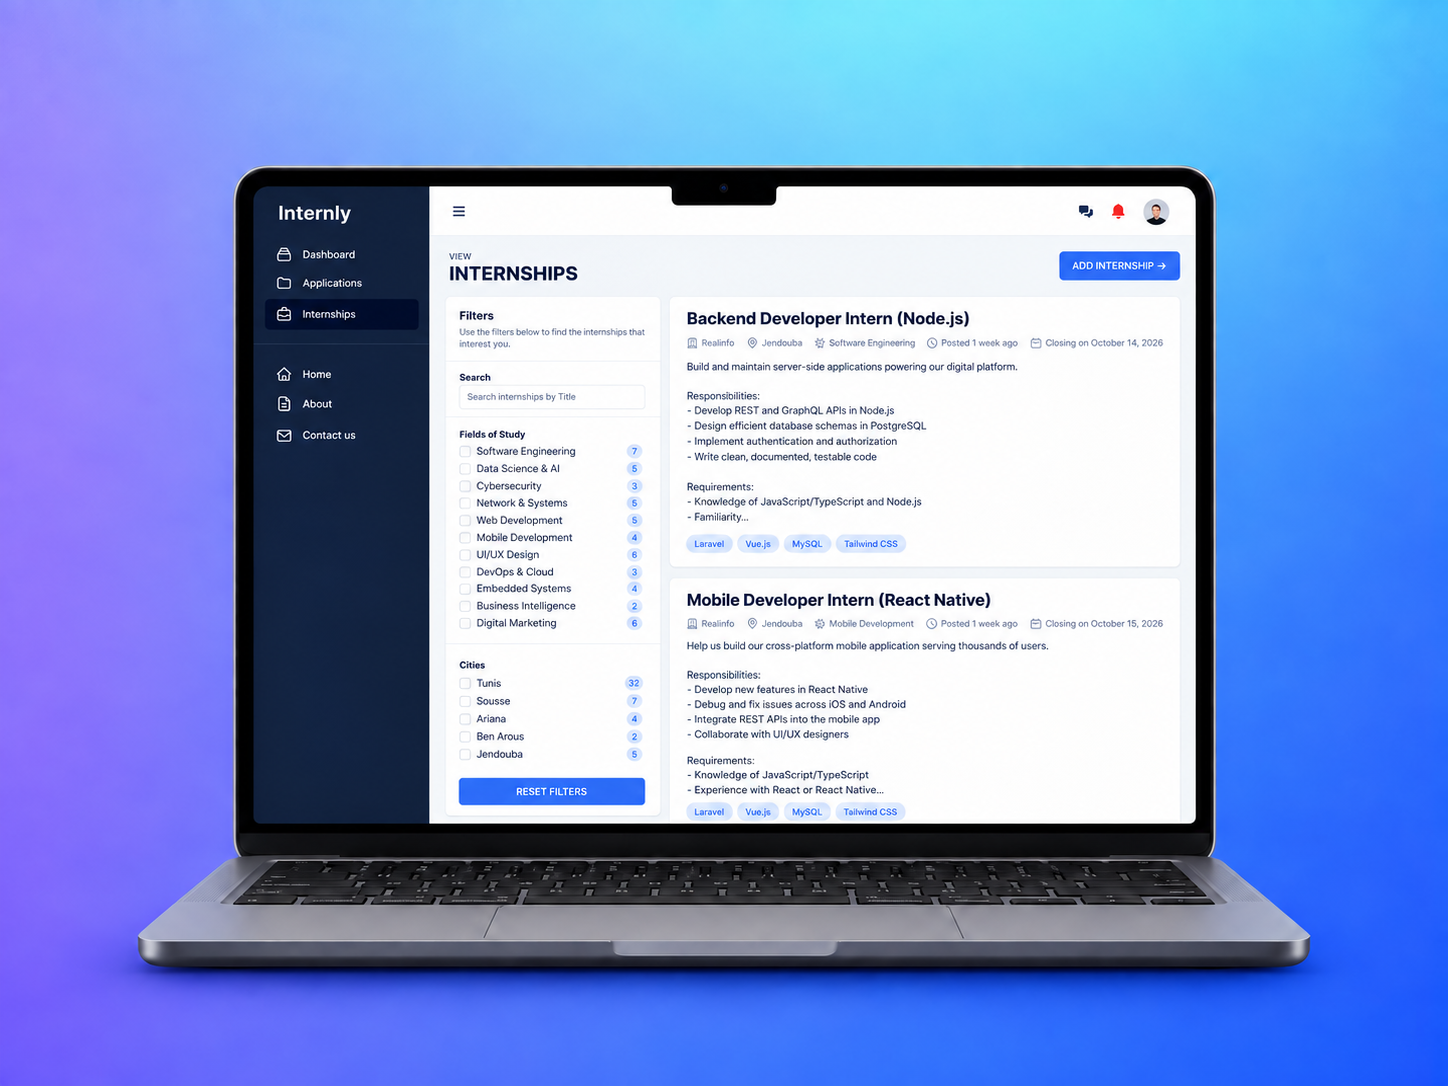
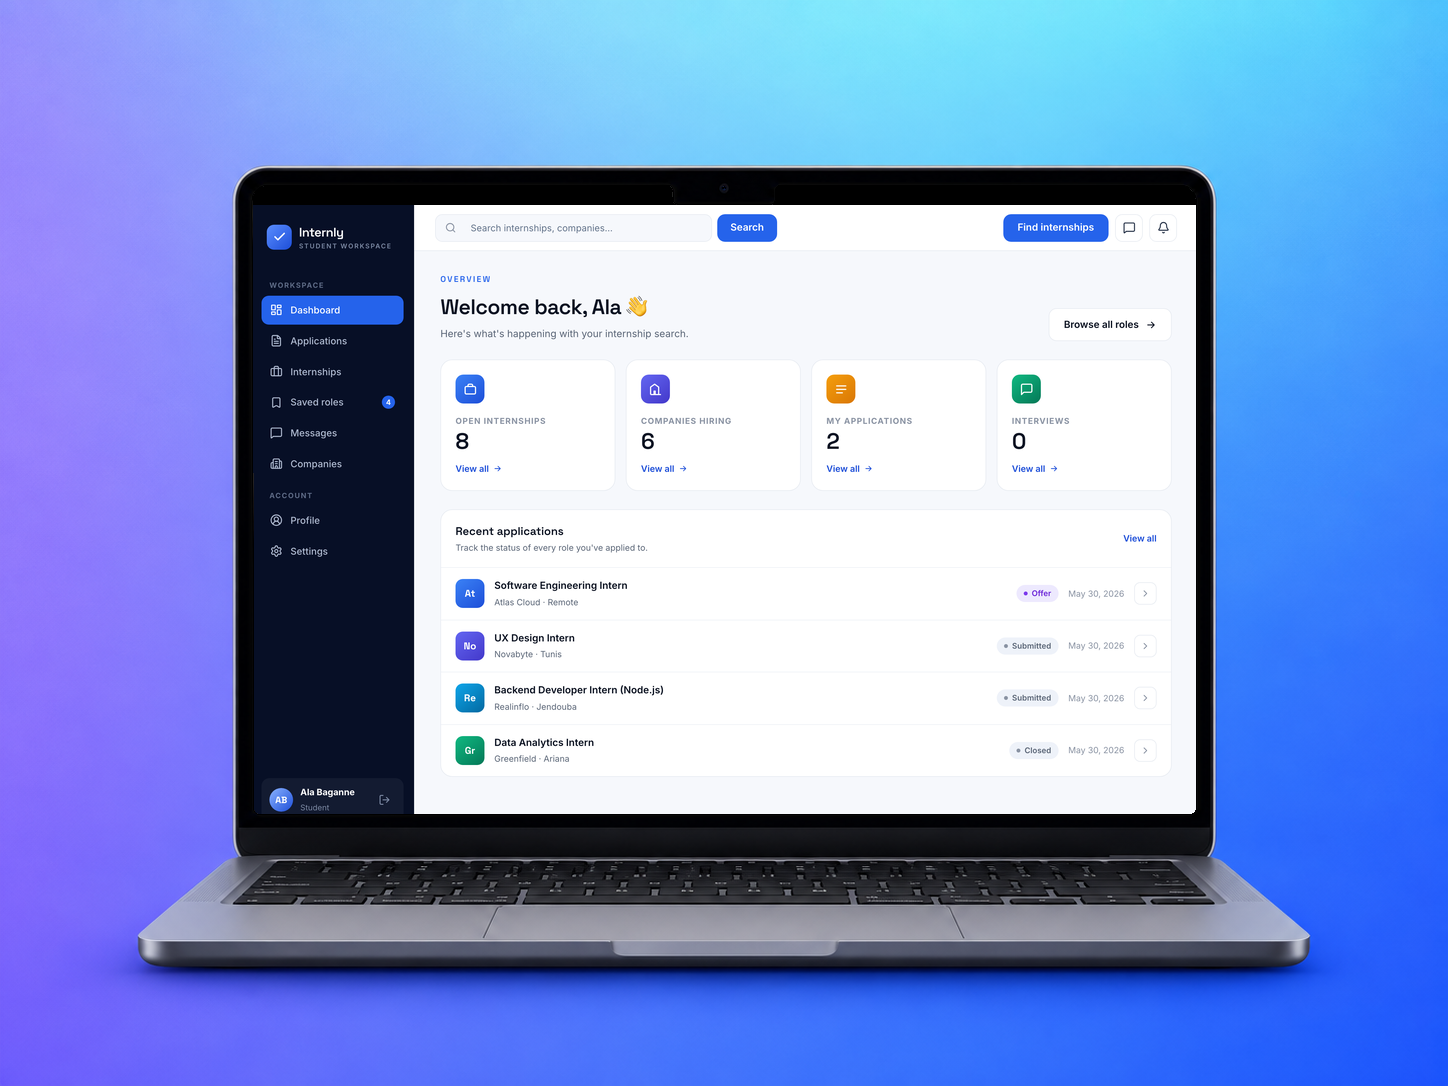
Add Karta and an Internly screenshots page, refresh project images

Changed region(s): [[0.1554, 0.1519, 0.8391, 0.7901]]

diff --git a/website/src/app/projects/internly/page.jsx b/website/src/app/projects/internly/page.jsx
@@ -1,0 +1,173 @@
+import Image from "next/image";
+import Link from "next/link";
+import { ArrowLeft, ArrowUpRight, Mail } from "lucide-react";
+
+import { SiteNavbar } from "@/components/site-navbar";
+
+export const metadata = {
+  title: "Internly screenshots | Ala Baganne",
+  description:
+    "Screenshots of Internly, an internship platform built with Laravel, Vue.js and Inertia.js: student, company and admin workspaces.",
+  alternates: {
+    canonical: "/projects/internly",
+  },
+  openGraph: {
+    title: "Internly — internship platform",
+    description: "Student, company and admin workspaces of Internly, built with Laravel, Vue.js and Inertia.js.",
+    type: "website",
+    url: "/projects/internly",
+    images: ["/projects/internly-demo.png"],
+  },
+};
+
+const tech = ["Laravel", "Vue.js", "Inertia.js", "MySQL", "Pusher"];
+
+const sections = [
+  {
+    title: "For students",
+    text: "Find roles, save the good ones, apply, and follow every application in one place.",
+    shots: [
+      { file: "student-internships", title: "Browse internships", text: "Search, field tabs and filters by field, city and company." },
+      { file: "student-internship-detail", title: "Internship details", text: "Role, skills, deadline and the company's contact card." },
+      { file: "student-applications", title: "Application tracking", text: "Every application with its status, from submitted to offer." },
+      { file: "student-messages", title: "Messages", text: "Chat with companies about an application." },
+    ],
+  },
+  {
+    title: "For companies",
+    text: "Post roles and review who applied.",
+    shots: [
+      { file: "company-applications", title: "Applicants", text: "The hiring pipeline, grouped by status." },
+    ],
+  },
+  {
+    title: "For admins",
+    text: "Admins get extra tools to run the platform.",
+    shots: [
+      { file: "admin-students", title: "Students", text: "Every student profile, with quick access to profiles and messages." },
+      { file: "admin-fields", title: "Fields of study", text: "Manage the fields that internships and students are sorted by." },
+    ],
+  },
+  {
+    title: "Public pages",
+    text: "What visitors see before they sign in.",
+    shots: [
+      { file: "landing", title: "Landing page", text: "Open roles, companies hiring and a clear way in." },
+      { file: "login", title: "Log in", text: "Split layout with the student demo account filled in." },
+    ],
+  },
+];
+
+function Shot({ file, title, text, priority = false }) {
+  const src = `/projects/internly/${file}.webp`;
+
+  return (
+    <figure>
+      <a
+        href={src}
+        target="_blank"
+        rel="noreferrer"
+        className="block overflow-hidden rounded-2xl border border-slate-200 bg-white shadow-[0_24px_60px_-28px_rgba(15,23,42,0.35)] transition hover:-translate-y-1"
+      >
+        <Image
+          src={src}
+          alt={`Internly ${title.toLowerCase()} screen`}
+          width={2880}
+          height={1800}
+          sizes="(min-width: 1024px) 50vw, 100vw"
+          priority={priority}
+          className="h-auto w-full"
+        />
+      </a>
+      <figcaption className="mt-4">
+        <p className="font-semibold text-slate-950">{title}</p>
+        <p className="mt-1 text-sm leading-6 text-slate-500">{text}</p>
+      </figcaption>
+    </figure>
+  );
+}
+
+export default function InternlyPage() {
+  return (
+    <main className="min-h-screen bg-white text-slate-700">
+      <SiteNavbar />
+
+      <header className="bg-slate-50 px-5 pb-16 pt-32 sm:px-8">
+        <div className="mx-auto max-w-6xl">
+          <Link className="inline-flex items-center gap-2 text-sm font-semibold !text-slate-500 hover:!text-blue-600" href="/#projects">
+            <ArrowLeft className="h-4 w-4" aria-hidden />
+            All projects
+          </Link>
+          <div className="mt-8 flex flex-col gap-8 lg:flex-row lg:items-end lg:justify-between">
+            <div className="max-w-3xl">
+              <span className="inline-flex items-center gap-3 font-mono text-xs font-medium uppercase tracking-[0.14em] text-blue-600 before:h-px before:w-6 before:bg-current">
+                End of studies project
+              </span>
+              <h1 className="mt-4 font-display text-5xl font-semibold tracking-[-0.03em] text-slate-950 md:text-6xl">Internly</h1>
+              <p className="mt-5 text-base leading-8 text-slate-600 md:text-lg">
+                An internship platform with three workspaces. Students find and apply to internships, companies post roles and
+                review applicants, and admins manage the whole catalog.
+              </p>
+              <div className="mt-6 flex flex-wrap gap-2">
+                {tech.map((item) => (
+                  <span key={item} className="rounded-md bg-blue-50 px-2.5 py-1 text-xs font-semibold text-blue-700">
+                    {item}
+                  </span>
+                ))}
+              </div>
+            </div>
+            <div className="flex flex-col items-start gap-3 lg:items-end">
+              <a
+                className="inline-flex items-center gap-2 rounded-full bg-blue-600 px-5 py-3 text-sm font-semibold !text-white transition hover:bg-blue-500"
+                href="https://internly.alabaganne.com"
+                target="_blank"
+                rel="noreferrer"
+              >
+                Visit live
+                <ArrowUpRight className="h-4 w-4" aria-hidden />
+              </a>
+              <p className="text-sm text-slate-500">The login form comes filled in with a demo student account.</p>
+            </div>
+          </div>
+          <div className="mt-12">
+            <Shot file="student-dashboard" title="Student dashboard" text="Open roles, companies hiring and the status of every application at a glance." priority />
+          </div>
+        </div>
+      </header>
+
+      {sections.map((section, index) => (
+        <section key={section.title} className={`px-5 py-16 sm:px-8 md:py-20 ${index % 2 ? "bg-slate-50" : "bg-white"}`}>
+          <div className="mx-auto max-w-6xl">
+            <h2 className="font-display text-3xl font-semibold tracking-[-0.02em] text-slate-950">{section.title}</h2>
+            <p className="mt-3 max-w-2xl text-base leading-7 text-slate-500">{section.text}</p>
+            <div className={`mt-10 grid gap-10 ${section.shots.length > 1 ? "lg:grid-cols-2" : "lg:max-w-3xl"}`}>
+              {section.shots.map((shot) => (
+                <Shot key={shot.file} {...shot} />
+              ))}
+            </div>
+          </div>
+        </section>
+      ))}
+
+      <footer className="bg-[#07142b] px-5 py-16 text-center sm:px-8">
+        <h2 className="font-display text-3xl font-semibold tracking-[-0.02em] text-white md:text-4xl">Need a platform like this?</h2>
+        <div className="mt-8 flex flex-wrap justify-center gap-3">
+          <Link
+            className="inline-flex items-center gap-2 rounded-full bg-blue-600 px-5 py-3 text-sm font-semibold !text-white transition hover:bg-blue-500"
+            href="/#contact"
+          >
+            <Mail className="h-4 w-4" aria-hidden />
+            Get in touch
+          </Link>
+          <Link
+            className="inline-flex items-center gap-2 rounded-full border border-white/15 bg-white/5 px-5 py-3 text-sm font-semibold !text-white transition hover:border-blue-600 hover:bg-blue-600"
+            href="/#projects"
+          >
+            More projects
+          </Link>
+        </div>
+        <p className="mt-12 text-sm text-slate-500">© {new Date().getFullYear()} Ala Baganne. All rights reserved.</p>
+      </footer>
+    </main>
+  );
+}

diff --git a/website/src/components/home/projects-section.jsx b/website/src/components/home/projects-section.jsx
@@ -4,6 +4,7 @@ import { SectionHeader } from "@/components/section-header";
 import { useMemo, useState } from "react";
 import { ArrowUpRight } from "lucide-react";
 import Image from "next/image";
+import Link from "next/link";
 
 // Set `topPick: true` on a project to feature it under the Top Picks filter.
 const projects = [
@@ -20,6 +21,20 @@ const projects = [
     tech: ["Next.js", "React", "Tailwind", "Supabase", "PostgreSQL"],
     accent: "#1d4ed8",
     image: "/projects/menumate-demo.png",
+  },
+  {
+    name: "Karta",
+    domain: "karta.alabaganne.com",
+    href: "https://karta.alabaganne.com",
+    category: ["Web"],
+    topPick: true,
+    badge: "E-commerce",
+    tag: "Gift card store",
+    description:
+      "Online store for gaming and streaming gift cards in Tunisia, where most people can't pay online with an international card. Buyers pay in dinars by D17, bank transfer or cash, and get their code by email. French, English and Arabic.",
+    tech: ["Next.js", "TypeScript", "Tailwind", "MySQL", "Drizzle"],
+    accent: "#e32a35",
+    image: "/projects/karta-demo.png",
   },
   {
     name: "PromptStream",
@@ -80,20 +95,6 @@ const projects = [
     image: "/projects/absoft-demo.png",
   },
   {
-    name: "Taroura Arena",
-    domain: "taroura-arena.alabaganne.com",
-    href: "https://taroura-arena.alabaganne.com/",
-    category: ["Web", "Freelance"],
-    topPick: true,
-    badge: "Freelance",
-    tag: "Gym & karate club website",
-    description:
-      "Website for Taroura Arena, a gym and karate club in Jemmal, Tunisia. Full-screen video hero, training programmes, weekly class schedule, pricing plans, and trial-session booking by form or WhatsApp. French content, mobile-first.",
-    tech: ["HTML", "CSS", "JavaScript"],
-    accent: "#e10600",
-    image: "/projects/taroura-arena-demo.png",
-  },
-  {
     name: "Martinez Auto Detail",
     domain: "booking.martinezautodetailwa.com",
     href: "https://booking.martinezautodetailwa.com/",
@@ -135,13 +136,14 @@ const projects = [
   {
     name: "Internly",
     domain: "internly.alabaganne.com",
-    href: "http://internly.alabaganne.com",
+    href: "https://internly.alabaganne.com",
+    details: "/projects/internly",
     category: ["Web", "Academic"],
     topPick: true,
     badge: "Academic",
     tag: "End of studies project",
     description:
-      "Internship platform where students discover and apply to internships and companies post opportunities, with real-time notifications, tracking, and dashboards.",
+      "Internship platform where students find and apply to internships, companies post roles and review applicants, and admins manage students, companies, fields and skills. Includes messaging, saved roles and application tracking.",
     tech: ["Laravel", "Vue.js", "Inertia.js", "MySQL", "Pusher"],
     accent: "#1d4ed8",
     image: "/projects/internly-demo.png",
@@ -159,6 +161,20 @@ const projects = [
     tech: ["Vue.js", "Laravel", "MySQL", "Bootstrap", "Swagger"],
     accent: "#1d4ed8",
     image: "/projects/satoripop-rh-demo.png",
+  },
+  {
+    name: "Taroura Arena",
+    domain: "taroura-arena.alabaganne.com",
+    href: "https://taroura-arena.alabaganne.com/",
+    category: ["Web", "Freelance"],
+    topPick: true,
+    badge: "Freelance",
+    tag: "Gym & karate club website",
+    description:
+      "Website for Taroura Arena, a gym and karate club in Jemmal, Tunisia. Full-screen video hero, training programmes, weekly class schedule, pricing plans, and trial-session booking by form or WhatsApp. French content, mobile-first.",
+    tech: ["HTML", "CSS", "JavaScript"],
+    accent: "#e10600",
+    image: "/projects/taroura-arena-demo.png",
   },
   {
     name: "Socialura",
@@ -223,7 +239,7 @@ function ProjectThumb({ project }) {
     <div className="relative aspect-[4/3] overflow-hidden border-b border-slate-200 bg-slate-50">
       {project.image ? (
         <Image
-          src={`${project.image}?v=20260923-3`}
+          src={`${project.image}?v=20260924-3`}
           alt={`${project.name} demo`}
           fill
           sizes="(min-width: 1024px) 50vw, 100vw"
@@ -341,19 +357,26 @@ export function ProjectsSection() {
                 </div>
                 <div className="flex items-center justify-between border-t border-dashed border-slate-200 pt-4 text-sm">
                   <span className="font-mono text-xs uppercase tracking-[0.08em] text-slate-500">{project.category.join(" / ")}</span>
-                  {project.href ? (
-                    <a
-                      className="inline-flex items-center gap-1.5 font-semibold !text-blue-600 hover:underline"
-                      href={project.href}
-                      target="_blank"
-                      rel="noreferrer"
-                    >
-                      {project.linkLabel || "Visit live"}
-                      <ArrowUpRight className="h-3.5 w-3.5" aria-hidden />
-                    </a>
-                  ) : (
-                    <span className="font-mono text-xs text-slate-500">private client work</span>
-                  )}
+                  <div className="flex items-center gap-5">
+                    {project.details && (
+                      <Link className="font-semibold !text-slate-700 hover:underline" href={project.details}>
+                        Screenshots
+                      </Link>
+                    )}
+                    {project.href ? (
+                      <a
+                        className="inline-flex items-center gap-1.5 font-semibold !text-blue-600 hover:underline"
+                        href={project.href}
+                        target="_blank"
+                        rel="noreferrer"
+                      >
+                        {project.linkLabel || "Visit live"}
+                        <ArrowUpRight className="h-3.5 w-3.5" aria-hidden />
+                      </a>
+                    ) : (
+                      <span className="font-mono text-xs text-slate-500">private client work</span>
+                    )}
+                  </div>
                 </div>
               </div>
             </article>

diff --git a/website/src/app/sitemap.js b/website/src/app/sitemap.js
@@ -26,6 +26,12 @@ export default async function sitemap() {
       changeFrequency: "weekly",
       priority: 0.8,
     },
+    {
+      url: `${siteUrl}/projects/internly`,
+      lastModified,
+      changeFrequency: "monthly",
+      priority: 0.6,
+    },
     ...blogEntries,
   ];
 }
